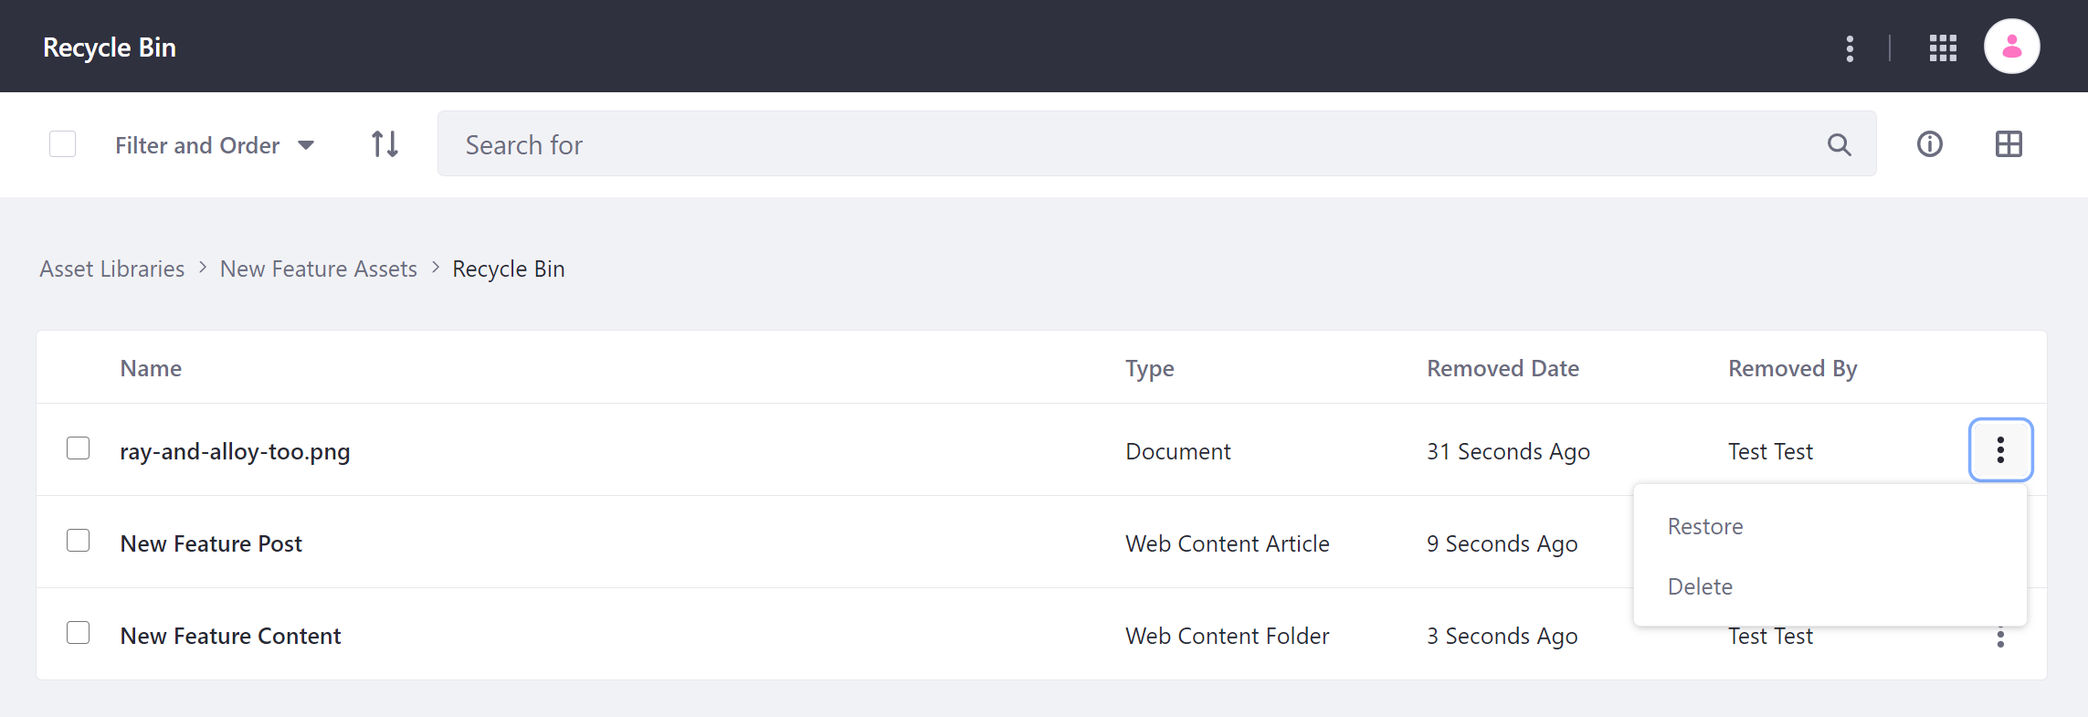
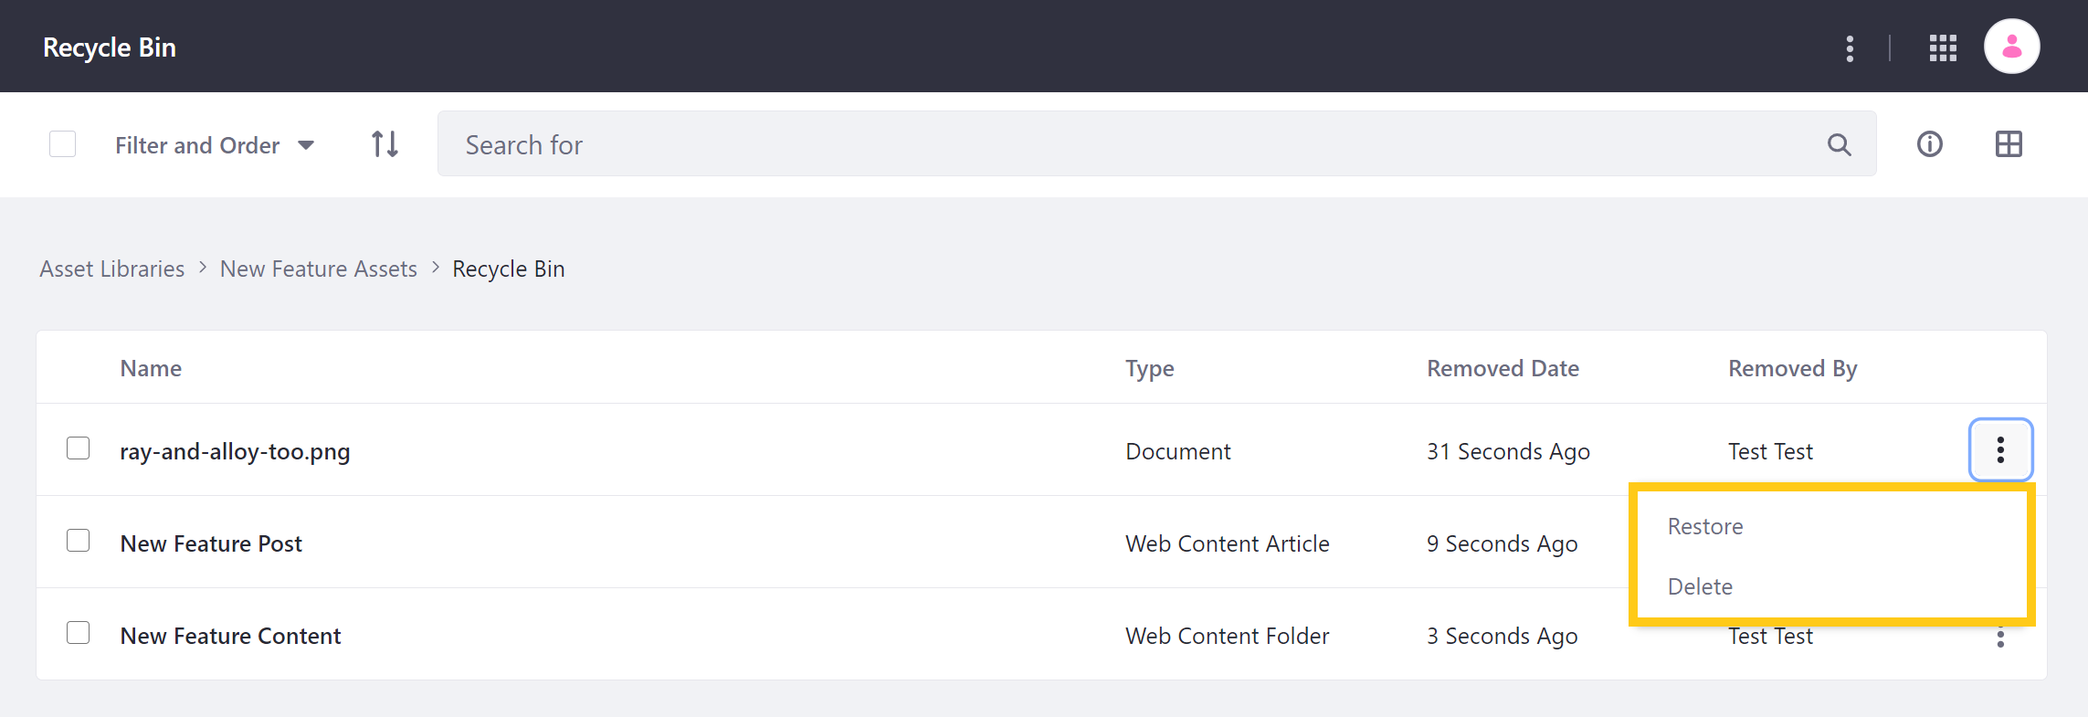
LRDOCS-8392, wordsmithing and image edits

Changed region(s): [[0.7765, 0.6726, 0.9939, 0.8866]]

diff --git a/docs/dxp/7.x/en/content-authoring-and-management/asset-libraries/creating-and-managing-asset-libraries.md b/docs/dxp/7.x/en/content-authoring-and-management/asset-libraries/creating-and-managing-asset-libraries.md
@@ -1,11 +1,11 @@
 # Creating and Managing Asset Libraries
 
-You can manage Asset Libraries for your DXP instance via the *Asset Libraries* page in the *Applications* menu. From here, you can create and configure as many Libraries as needed and determine how each Library is connected to your Sites.
+You can manage Asset Libraries for your DXP instance via the *Asset Libraries* Page in the *Applications* tab of the Global Menu. Here, you can create and configure as many Libraries as needed and determine how each Library is connected to your Sites.
 
-![Create and manage Asset Libraries for your DXP instance via the Asset Libraries Page in the Applications menu.](./creating-and-managing-asset-libraries/images/01.png)
+![Create and manage Asset Libraries for your DXP instance via the Asset Libraries Page in the Applications tab of the Global Menu.](./creating-and-managing-asset-libraries/images/01.png)
 
 * [Creating an Asset Library](#creating-an-asset-library)
-* [Asset Library Configuration](#asset-library-configuration)
+* [Configuring Asset Libraries](#configuring-asset-libraries)
 * [Managing Asset Library Memberships](#managing-asset-library-memberships)
 * [Deleting an Asset Library](#deleting-an-asset-library)
 
@@ -13,17 +13,19 @@ You can manage Asset Libraries for your DXP instance via the *Asset Libraries* p
 
 Follow these steps to create an Asset Library for your instance:
 
-1. Open the Applications tab in the Global menu, and go to *Content* &rarr; *Asset Libraries*.
+1. Open the *Global Menu*, and go to *Content* &rarr; *Asset Libraries* in the Applications tab.
 
-1. Click on the *Add* button ( ![Add button]() ), and enter a *Name* for your new Asset Library.
+1. Click on the *Add* button ( ![Add button](../../images/icon-add.png) ), and enter a *Name* for your new Asset Library.
 
 1. Click on *Save*.
 
 This creates a new Asset Library with a unique ID and redirects you to its configuration page.
 
-## Asset Library Configuration
+You can configure your Library now, or accept the default settings and get started adding content to the Library.
 
-Once you've created an Asset Library, you can configure it at any time by clicking on its *Actions* button ( ![Actions button]() ) and selecting *Edit*. Configuration options are organized into three sections: *General*, *Sites*, and *Languages*. <!--You can also access a Library's settings via its dashboard page. Simply click on the *name* of the Asset Library you want to configure, and then click on *Settings*.-->
+## Configuring Asset Libraries
+
+Once you've created an Asset Library, you can configure it at any time by clicking on its *Actions* button ( ![Actions button](../../images/icon-actions.png) ) and selecting *Edit*. Configuration options are organized into three sections: *General*, *Sites*, and *Languages*. <!--IS THE FOLLOWING TEXT RELEVANT? "You can also access a Library's settings via its dashboard page. Simply click on the *name* of the Asset Library you want to configure, and then click on *Settings*."-->
 
 ### General Settings
 
@@ -35,22 +37,17 @@ In the *General* tab, you can configure an Asset Library's basic information.
 
 * **Applications**: Determine whether a Library's supported applications (i.e., Documents and Media, Collections, Web Content) are available to Sites.
 
-   ```note::
-      Disabling an application does not delete any existing content.
-   ```
-   <!-- DXP UI NOTE STATES: Applications can be activated and deactivated without losing data and the existing connections to sites and/or asset libraries. Inactive applications and configurations will not be exposed.-->
-
    ![Determine whether a Library's supported applications are available to Sites.](./creating-and-managing-asset-libraries/images/03.png)
 
 * **Sharing**: Determine whether Users can share a Library's assets with other Users.
 
    ![Determine whether Users can share a Library's assets with other Users](./creating-and-managing-asset-libraries/images/04.png)
 
-* **Asset Auto Tagging**: Determine whether a Library's assets are auto tagged by the providers configured at the instance level. <!--clarify meaning?-->
+* **Asset Auto Tagging**: Determine whether a Library's assets are auto tagged by the providers configured at the instance level.
 
    ![Determine whether a Library's assets are auto tagged by the providers configured at instance level.](./creating-and-managing-asset-libraries/images/05.png)
 
-* **Documents and Media**: Determine whether all Users with the view permission can browse Documents and Media files and folders in a Library. By default, this setting is disabled.
+* **Documents and Media**: Determine whether all Users with the View permission can browse Documents and Media files and folders in a Library. By default, this setting is disabled.
 
    ![Determine whether all Users with the view permission can browse Documents and Media files and folders](./creating-and-managing-asset-libraries/images/06.png)
 
@@ -60,7 +57,7 @@ In the *General* tab, you can configure an Asset Library's basic information.
 
 ### Sites
 
-In the *Sites* tab, you can connect or disconnect individual Sites to an Asset Library, as well as configure how they're related via the connected Site's *Actions* button ( ![Actions button]() ).
+In the *Sites* tab, you can connect or disconnect individual Sites to an Asset Library, as well as configure how they're related via the connected Site's *Actions* button ( ![Actions button](../../images/icon-actions.png) ).
 
 ![Connect Sites to an Asset Library and configure their connection.](./creating-and-managing-asset-libraries/images/08.png)
 
@@ -68,64 +65,57 @@ In the *Sites* tab, you can connect or disconnect individual Sites to an Asset L
 
 * **Make Searchable/Unsearchable**: Determine whether the Library's assets appear in search queries for the selected Site. By default, all connections are searchable.
 
-* **Make Web Content Structures Available**: Determine whether *Web Content Structures* and *Document Types* are available to the selected Site. By default, this feature is disabled. When enabled, you can create content in the Site based on structures and types stored in the Library
+* **Make Web Content Structures Available**: Determine whether *Web Content Structures* and *Document Types* are available to the selected Site. By default, this feature is disabled. When enabled, you can create content in the Site based on structures and types stored in the Library.
 
    ```important::
-      You cannot disconnect a site while this feature is enabled. This is to avoid problems in public Pages using these contents. Also, ensure you've communicated with ___ your team before disabling this feature to avoid similar problems.
+      You cannot disconnect a site while this feature is enabled. This is to avoid problems in public Pages using these contents. Also, ensure you've communicated with your team before disabling this feature, since content using these structures will no longer be available.
    ```
-<!-- REVIEW AND FINISH NOTE -->
+
 * **Disconnect**: Disconnect the selected Site from the Library. When disconnected, the Library's assets are no longer accessible from the Site.
 
 ### Languages
 
-In the *Languages* tab, you can determine whether to use your instance's default language options, or to define your own custom configuration for an Asset Library.<!--refine--> When configuring your own options, you can determine your Library's default language, as well as each each language's relative priority. You can also click on *Edit* to determine which languages are available in the Library.
+In the *Languages* tab, you can determine whether to use your instance's default language options for an Asset Library, or to define your own options. When configuring your own options, you can determine your Library's default language, as well as each language's relative priority. You can also click on *Edit* to determine which languages are available in the Library.
 
-![Use your instance's default language options, or define your own for an Asset Library](./creating-and-managing-asset-libraries/images/09.png)
+![Use your instance's default language options for an Asset Library, or define your own](./creating-and-managing-asset-libraries/images/09.png)
 
-The default language is used for displaying content when no other language is selected, or when the selected language has no set translation.
-
-A language's relative priority is determined by its placement in the language list. You can adjust a language's priority using its *Drag* icon ( ![Drag icon]() ), or by clicking on its *Actions* button ( ![Actions button]() ) and selecting *Move Up* or *Move Down*.
+The default language is used for displaying content when no other language is selected, or when the selected language has no set translation. Use the *Drag* icon ( ![Drag icon]() ) to manually adjust a language's relative priority, or click on a language's *Actions* button ( ![Actions button](../../images/icon-actions.png) ) and select *Move Up* or *Move Down*.
 
 ## Managing Asset Library Memberships
 
-You can view and manage Asset Library *memberships* via each Library's dashboard.
-Click on the add button to add, or remove Users, Organizations, and User Groups to the selected Library. 
-Assign Roles.
-Add Organizations to the .
-User Groups.<!--Finish.-->
+You can view and manage User memberships for an Asset Library by going to its dashboard Page and clicking on *Memberships*. From here, you can add new Users, Organizations, and User Groups to the selected Library by click on the *Add* button (![Add button](../../images/icon-add.png)). You can also *Assign Roles* or *Remove Memberships* for each existing member by clicking on its *Actions* button ( ![Actions button](../../images/icon-actions.png) ).
 
-![](./creating-and-managing-asset-libraries/images/10.png)
+![View an manage Asset Library memberships.](./creating-and-managing-asset-libraries/images/10.png)
 
-By default, each Asset Library includes the following four roles:
+By default, Asset Libraries include the five following roles:
 
-* **Asset Library Member**: This role rants basic permissions and is automatically assigned to Users who belong to an Asset Library.
+* **Asset Library Member**: This role grants basic permissions and is automatically assigned to Users who belong to an Asset Library.
 
    ```note::
-      By default, Member permissions are more restricted than its Site counterpart. This means you’ll need to manually grant access to applications, update/delete permissions for content, and more if you want them to be responsible for managing content.
+      By default, the Asset Library Member's permissions are more restricted than those of its Site counterpart. This means you’ll need to manually grant access to applications, update/delete permissions for content, and more if you want Members to be responsible for managing content.
    ```
 
-* **Asset Library Content Reviewer**: This role grants permissions necessary for reviewing content as part of a workflow.
+* **Asset Library Connected Site Member**: This role is automatically assigned to members of a connected Site. <!--does this role come with any permissions? Do its permissions depend on how their Site's connection to a Library is configured? -->
 
-* **Asset Library Administrator**: This role grants permission to manage most aspects of an Asset Library, including content, memberships, and settings. However, it does not grant permission to modify or assign the Owner or Administrator roles to other members.
+* **Asset Library Content Reviewer**: This role grants permissions necessary for reviewing content in a workflow.
 
-* **Asset Library Owner**: This is role grants control over all aspects of an Asset Library and is automatically assigned to the Library's creator.
+* **Asset Library Administrator**: This role grants permission to manage most aspects of an Asset Library, including content, memberships, and settings. However, it does not grant permission to modify or assign the Owner or Administrator roles to other Members.
 
-Members of a connected Site are automatically assigned the *Asset Library Connected Site Member* role. <!--does this role come with any permissions? Do its permissions depend on how their Site's connection to a Library is configured? -->
+* **Asset Library Owner**: This role grants control over all aspects of an Asset Library and is automatically assigned to the Library's creator.
 
-![](./creating-and-managing-asset-libraries/images/11.png)
+![Asset Libraries include four default Roles](./creating-and-managing-asset-libraries/images/11.png)
 
-Creating a new role or customizing an existing role is the same as any other kind. See [Roles and Permissions]() documentation for how to create, customize, manage, and assign User roles.
+Creating or customizing an Asset Library role is the same process as for other kinds of roles. See [Roles and Permissions](../../users-and-permissions/roles_and_permissions.html) documentation for how to create, customize, manage, and assign User roles.
 
 ## Deleting an Asset Library
 
-To remove an Asset Library and its contents from your instance, click on its *Actions* button, and select *Delete*. You are then prompted to confirm the removal. Once removed, all contained assets are removed from your database and are no longer available to previously connected Sites.
+To remove an Asset Library and its contents from your instance, click on its *Actions* button ( ![Actions button](../../images/icon-actions.png) ), and select *Delete*. You are then prompted to confirm this action. Once deleted, all contained assets are removed from your database and are no longer available to previously connected Sites.
 
 ```warning::
    This action cannot be undone. Ensure you're removing the correct Asset Library and that you've backed up any assets you want to keep.
 ```
-<!-- refine -->
+
 ## Additional Information
 
 * [Asset Libraries Overview](./asset-libraries-overview.md)
 * [Asset Library Content](./asset-library-content.md)
-* [Asset Library Roles and Permissions](./asset-library-roles-and-permissions.md)

diff --git a/docs/dxp/7.x/en/content-authoring-and-management/asset-libraries/asset-library-content.md b/docs/dxp/7.x/en/content-authoring-and-management/asset-libraries/asset-library-content.md
@@ -1,18 +1,14 @@
 # Asset Library Content
 
-Asset Libraries provide a convenient way to share content across your Sites. This can help to reduce data duplication and streamline content collaboration across your instance. You can add and manage a Library's content from its *dashboard* page, which can be accessed by clicking on its name in the Asset Libraries application page.
+Asset Libraries provide a convenient way to share content across your Sites. This can help to reduce data duplication and streamline content collaboration across your instance. Users can add and manage a Library's content from its *dashboard* page, which can be accessed by clicking on its *name* in the Asset Libraries application Page.
 
 ![Click on the desired Asset Library's name to access its dashboard.](./asset-library-content/images/01.png)
 
-Each dashboard displays the Library's active applications and categorization tools. From here, you can view, create, and organize a Library's content. You can also enable a workflow to _ the publishing process for the Library's web content. 
+Each Library's dashboard displays its active applications and categorization tools. From here, you can view, create, and organize a Library's content. You can also enable a workflow to direct the publishing process for your Library's web content.
 
-You can also initiate import and export processes for a Library using LAR files.
+Each dashboard also provides access to import/export functionalities.
 
-When enabled, you can also view the Library's Recycle Bin before its content is permanently removed from your instance. -->
-
-You can also import content to your Library, or export its content to an LAR file.
-
-If enabled, this is also where Users can view the Library's *Recycle Bin* before they're permanently removed from your instance.
+When enabled, you can also view the Library's Recycle Bin before its content is permanently removed from your instance.
 
 * [Creating Content](#creating-content)
 * [Using Content in Your Sites](#using-content-in-your-sites)
@@ -24,32 +20,18 @@ If enabled, this is also where Users can view the Library's *Recycle Bin* before
 
 Since all supported applications behave in the same way, creating content in an Asset library is essentially the same as creating it in a Site. The only differences are its location and default theme settings.
 
-Follow these steps to create content in an Asset Library:
+To create content, first go to the dashboard for the desired Asset Library, and then click on the *application* with which you want to create content. From here, the content creation process is the same as with Site content. See [Content Authoring and Management](../../content_authoring_and_management.html) articles for more information about creating each type of content.
 
-1. Open the *Applications* tab in the Global menu, and go to *Content* &rarr; *Asset Libraries*.
-
-1. Click on the *name* of the desired Asset Library to access its dashboard.
-
-1. Click on the *application* for/with<!--w/c--> which you want to create content.
-
-   ```note::
-      Only active applications appear on a Library's dashboard. To activate or deactivate an application, see `Asset Library Configuration <./creating-and-managing-asset-libraries.md#asset-library-configuration>`_ for more information.
-   ```
-   <!-- TEST RELATIVE LINK -->
-
-1. Create your desired content type as usual. See [Content Authoring and Management]() articles for more information on how to create each content type.<!--Finish.-->
-
-You can view created content in the Asset Library or connected Sites.
-
-Once created, you can view an Asset Library's content by going to its respective application. You can also create and <!--assign/manage/___--> categories and tags for organizing your Library's content. <!--finish-->
-
-```tip::
-   When viewing a Library's content, you can use breadcrumbs to quickly navigate back to the Library's *dashboard* or to the *Asset Libraries* application Page.
+```note::
+   Only active applications appear on a Library's dashboard. To activate or deactivate an application, see `Asset Library Configuration <./creating-and-managing-asset-libraries.md#asset-library-configuration>`_ for more information.
 ```
+<!-- TEST RELATIVE LINK -->
+
+Once created, you can view an Asset Library's content by going to its respective application. When viewing a Library's content, you can use breadcrumbs to quickly navigate back to the Library's *dashboard* or to the *Asset Libraries* application Page.
 
 ## Using Content in Your Sites
 
-To use content from an Asset Library in a Site, the Library must be connected to the Site, and it must have the desired application enabled. Once __<!--configured-->, using Asset Library content in your Site essentially works the same way as using Site content. The only difference is that Users must filter available content to display content from connected Asset Libraries. <!--refine-->
+To use Asset Library content in a Site, they must be connected, and the library must have the desired application activated. Once configured, using Asset Library content in your Site works the same way as using Site content. The only difference is that Users must filter available content to display content from connected Asset Libraries.
 
 For example, when mapping content to a page fragment, you can use content from an asset library by filtering displayed content to include content from *Everywhere*. Then, select the desired content in the Item Selector.
 
@@ -63,29 +45,29 @@ Similarly, when publishing content using the Asset Publisher widget, you must se
 
 ![Set the Asset Publisher's scope to include content from a specific Asset Library.](./asset-library-content/images/04.png)
 
-For more information about using content in your Site, see []() and []().<!--Finish.-->
+See [Displaying Content](../../site-building/displaying_content.html) documentation for more information about using content in your Sites.
 
 ## Tagging and Categorizing Content
 
-<!--  -->
+With Asset Libraries, you can use tags and categories to organize your content. To access these tools, go to a Library's dashboard, and click on *Tags* or *Categories*. Here you can create new tags and decide whether to use Global categories or to create your own.
 
-## Importing and Exporting Content
+The creation process is the same as in other contexts, though tags and categories created in this way are scoped to the Library in which they're made. See [Tags and Categories](../tags_and_categories.html) documentation for more information.
 
-<!--With Asset Libraries, you-->Can export existing Site content and import it to an Asset Library as an LAR file. Can also export an Asset Library's contents...
-<!--Finish.-->
+## Exporting and Importing Content
 
-To initiate a new export/import process for a Library, go to its dashboard, and click on *Export* or *Import* at the bottom of the page. Then, click on the *Add* button (![Add button]()) to initiate a new process. Importing and exporting Library content follows the same process as Site assets. Can create custom export templates. Click on the *Actions* button ( ![Actions button]() ) in the Applications bar menu, and select *Export Templates*... See [Importing/Exporting Sites and Content]() for more information.<!--Finish.-->
+With Asset Libraries, you can export and import content as LAR files. To initiate a new export/import process for a Library, go to its dashboard, and click on *Export* or *Import* at the bottom of the page. Then, click on the *Add* button (![Add button](../../images/icon-add.png)) to initiate a new process.
+
+Exporting and importing Library content follows the same process as Site assets. You can also create and use custom export templates by clicking on the *Actions* button ( ![Actions button](../../images/icon-actions.png) ) in the Applications bar, and selecting *Export Templates*. See [Importing/Exporting Sites and Content](../../site-building/building-sites/importing-exporting-pages-and-content.md) for more information.
 
 ## Removing Content
 
-When enabled for your Asset Library, you can move content to the Recycle Bin. By default, the content is retained for 43200 minutes (i.e., 30 days), but you can adjust this period in the Asset Library's settings. Once a recycled item has reached ___<!--the assigned period of time-->, it is automatically deleted from your instance. <!--Entries that have been in the Recycle Bin for more than this time are automatically deleted.--> 
+With Asset Libraries, you can move content to your Library's Recycle Bin when this feature is enabled. By default, recycled content is retained for 43200 minutes (i.e., 30 days), but you can adjust this period in each Asset Library's settings. Recycled content that has been in the Recycle Bin for more than the allotted time are automatically deleted from your instance.
 
-![](./asset-library-content/images/05.png)
+You can also choose to manually delete recycled content or restore it to your Asset Library by clicking on its *Actions* button ( ![Actions button](../../images/icon-actions.png) ). See [Introduction to the Recycle Bin](../recycle-bin/user-guide/introduction-to-the-recycle-bin.md) for more information.
 
-See [Recycle Bin]() for more information.<!--Finish.-->
+![Manually delete recycled content or restore it to your Asset Library.](./asset-library-content/images/05.png)
 
 ## Additional Information
 
 * [Asset Libraries Overview](./asset-libraries-overview.md)
 * [Creating and Managing Asset Libraries](./creating-and-managing-asset-libraries.md)
-* [Asset Library Roles and Permissions](./asset-library-roles-and-permissions.md)

diff --git a/docs/dxp/7.x/en/content-authoring-and-management/asset-libraries/asset-libraries-overview.md b/docs/dxp/7.x/en/content-authoring-and-management/asset-libraries/asset-libraries-overview.md
@@ -12,8 +12,9 @@ Asset Libraries work under the same permission management system as other DXP ap
 
 By default, there are four main Asset Library roles created by default, equivalent to their site counterparts (Asset Library Owner, Admin, Member and Content Reviewer). Administrators can create new Asset Library roles to cater for their specific needs.
 
+See []() for how to get started with Asset Libraries.
+
 ## Additional Information
 
 * [Creating and Managing Asset Libraries](./creating-and-managing-asset-libraries.md)
 * [Asset Library Content](./asset-library-content.md)
-* [Asset Library Roles and Permissions](./asset-library-roles-and-permissions.md)
